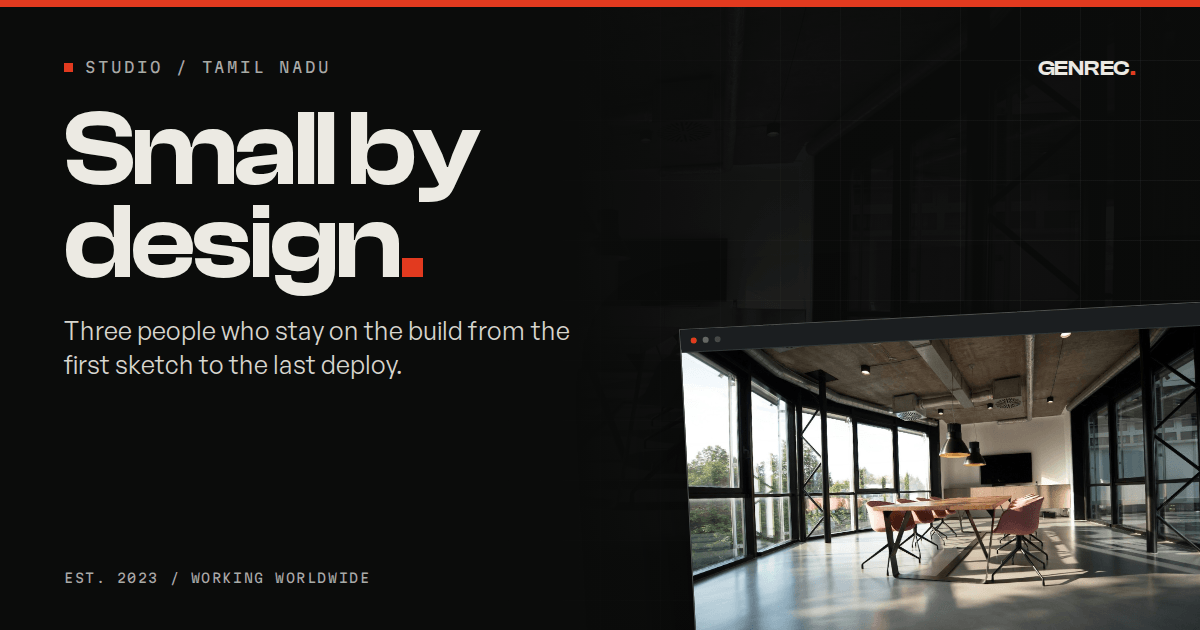
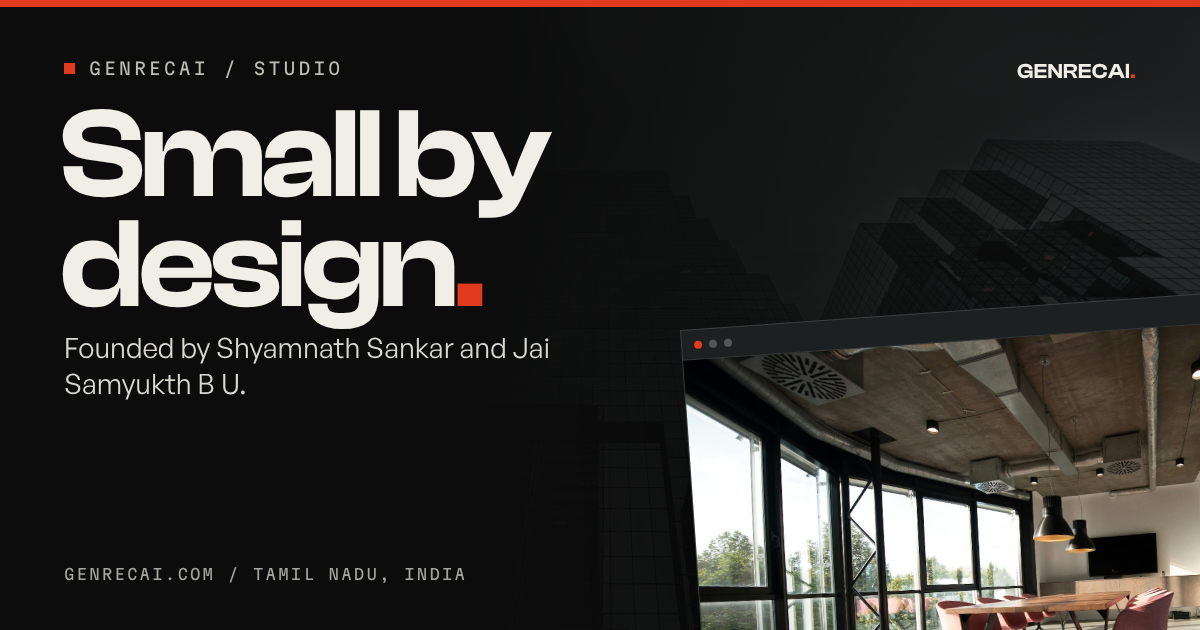
Use the GENRECAI wordmark, regenerate share images, fix contrast and labels
- Wordmark is GENRECAI in the header, menu and footer; footer size retuned
- All Open Graph images regenerated with the GENRECAI mark
- Small red labels and the hero CTA use a darker accent that passes AA
- Brand link and project cards no longer override their visible text

Claude-Session: https://claude.ai/code/session_01SxpSGSTatxrWCAEmvUXoB1

diff --git a/src/styles/redesign.css b/src/styles/redesign.css
@@ -1,5 +1,5 @@
 /* ============================================================
-   GENREC AI: selected work / studio / case studies
+   GENRECAI: selected work / studio / case studies
    ============================================================ */
 
 /* ---------- Chrome ---------- */
@@ -124,8 +124,8 @@
 .hero--dark .beam { position: relative; z-index: 2; margin-top: clamp(2.4rem, 6vh, 4.5rem); }
 .hero--dark .beam__frame { height: clamp(5.5rem, 13vh, 9rem); }
 .hero--dark .btn--accent {
-  background: var(--c-accent);
-  border-color: var(--c-accent);
+  background: var(--c-accent-text);
+  border-color: var(--c-accent-text);
   color: #fff5f1;
 }
 .hero--dark .btn--accent .btn__fill { background: var(--c-fg); }
@@ -490,7 +490,7 @@
   padding-block: clamp(1.1rem, 2.4vh, 1.6rem);
   border-bottom: 1px solid var(--c-line);
 }
-.cap__num { font-family: var(--f-mono); font-size: var(--t-2xs); color: var(--c-accent); }
+.cap__num { font-family: var(--f-mono); font-size: var(--t-2xs); color: var(--c-accent-text); }
 .cap__item h3 {
   font-family: var(--f-display);
   font-weight: 500;
@@ -1238,7 +1238,7 @@
   border-right: 1px solid var(--c-line);
 }
 .team-card:last-child { border-right: 0; }
-.team-card__num { font-family: var(--f-mono); font-size: var(--t-2xs); color: var(--c-accent); }
+.team-card__num { font-family: var(--f-mono); font-size: var(--t-2xs); color: var(--c-accent-text); }
 .team-card h3 {
   margin-top: 2.5rem;
   font-family: var(--f-display);
@@ -1252,7 +1252,7 @@
   font-size: var(--t-xs);
   font-weight: 600;
   letter-spacing: 0.02em;
-  color: var(--c-accent);
+  color: var(--c-accent-text);
 }
 .team-card__line {
   margin-top: 0.9rem;
@@ -1277,7 +1277,7 @@
 }
 .process-step:nth-child(odd) { border-right: 1px solid var(--c-line); padding-right: clamp(1.5rem, 3vw, 2.5rem); }
 .process-step:nth-child(even) { padding-left: clamp(1.5rem, 3vw, 2.5rem); }
-.process-step__num { font-family: var(--f-mono); font-size: var(--t-2xs); color: var(--c-accent); }
+.process-step__num { font-family: var(--f-mono); font-size: var(--t-2xs); color: var(--c-accent-text); }
 .process-step h3 {
   margin-top: 2rem;
   font-family: var(--f-display);

diff --git a/src/styles/site.css b/src/styles/site.css
@@ -1,5 +1,5 @@
 /* ============================================================
-   GENREC AI: site styles
+   GENRECAI: site styles
    ============================================================ */
 
 html {
@@ -889,7 +889,7 @@ body {
   margin-top: clamp(3.5rem, 11vh, 8rem);
   font-family: var(--f-display);
   font-weight: 600;
-  font-size: clamp(4rem, 19vw, 20rem);
+  font-size: clamp(3rem, 14.2vw, 15rem);
   line-height: 0.72;
   letter-spacing: -0.045em;
   text-transform: uppercase;
@@ -914,7 +914,7 @@ body {
   .footer__email { grid-column: 1 / 13; }
   .footer__note { grid-column: 1 / 13; }
   .footer__meta { grid-column: 1 / 13; justify-items: start; }
-  .footer__word { font-size: clamp(3.6rem, 19vw, 9rem); }
+  .footer__word { font-size: clamp(2.6rem, 14vw, 7rem); }
 }
 
 /* ---------- Cover (procedural specimen) ---------- */

diff --git a/src/components/Header.tsx b/src/components/Header.tsx
@@ -112,7 +112,7 @@ export function Header() {
   return (
     <>
       <header className="site-header">
-        <Link href="/" className="brand" aria-label={`${site.name} home`}>
+        <Link href="/" className="brand" aria-label={`${site.wordmark} home`}>
           {site.wordmark}
           <span className="brand__dot" aria-hidden="true" />
         </Link>

diff --git a/src/components/ProjectCard.tsx b/src/components/ProjectCard.tsx
@@ -41,7 +41,6 @@ export function ProjectCard({
       onPointerMove={onMove}
       data-reveal="up"
       data-delay={String(index * 0.07)}
-      aria-label={`${project.title}, ${project.sector}, ${project.year}`}
     >
       <div className="pcard__media" ref={mediaRef}>
         <span className="pcard__index">{String(index + 1).padStart(2, '0')}</span>

diff --git a/src/styles/tokens.css b/src/styles/tokens.css
@@ -7,6 +7,8 @@
   --c-line: rgb(20 23 26 / 0.16);
   --c-accent: #e23a1f;
   --c-accent-dark: #c92f14;
+  /* Accent for small text on paper and white text on red: passes AA (5.2:1). */
+  --c-accent-text: #b8290f;
   --c-accent-soft: rgb(226 58 31 / 0.12);
   --c-panel: #171a1c;
   --c-panel-ink: #eceae3;

diff --git a/src/data/site.ts b/src/data/site.ts
@@ -48,7 +48,7 @@ export type Project = {
 export const site = {
   name: 'GenrecAI',
   altNames: ['GenRec AI', 'Genrec AI', 'Genrec', 'genrecai.com'],
-  wordmark: 'GENREC',
+  wordmark: 'GENRECAI',
   role: 'Software and AI studio',
   url: 'https://www.genrecai.com',
   domain: 'genrecai.com',
